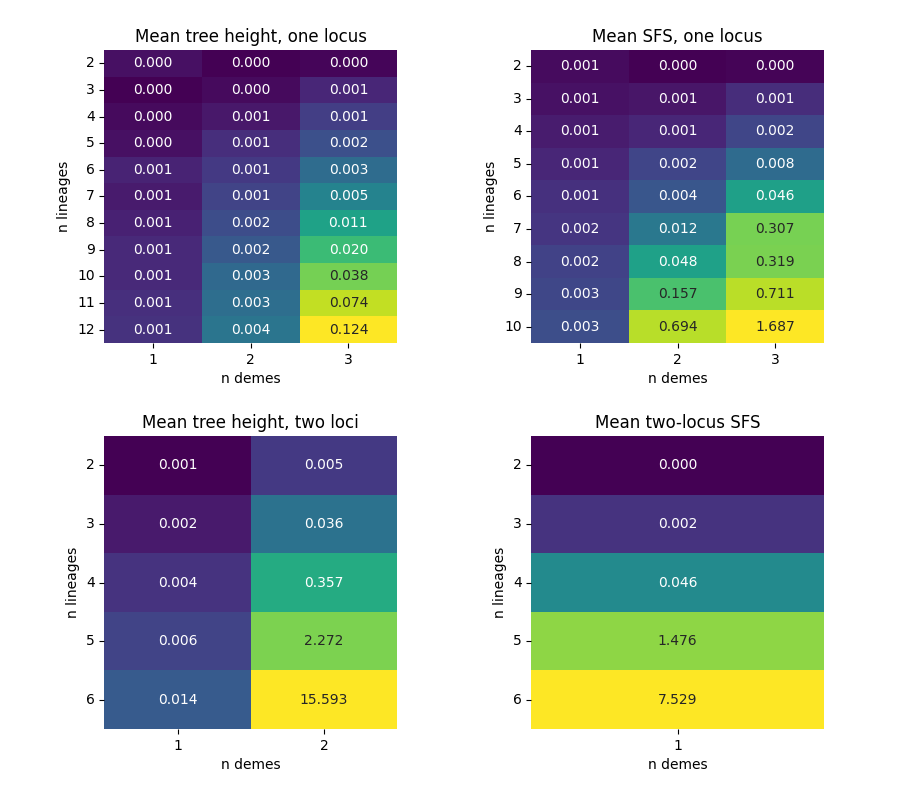
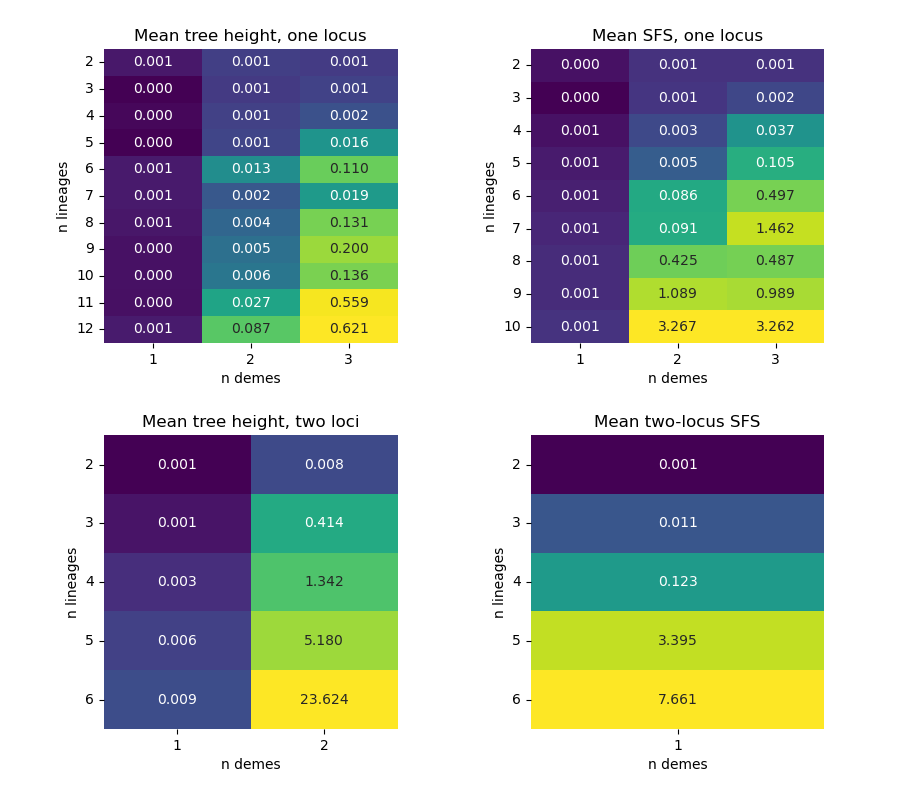
Prepare 1.2.0: bump version, changelog, performance page
Bump to 1.2.0 (pyproject, __init__, docs conf) and add the 1.2.0 changelog entry. Update the performance
page's runtime description (state-space flattening, closed-form last epoch, batched spectrum solves) and
regenerate execution_times.png; fix the benchmark warm-up (it used three isolated demes that never absorb).

diff --git a/docs/conf.py b/docs/conf.py
@@ -15,7 +15,7 @@ project = 'PhaseGen'
 year = datetime.datetime.now().year
 copyright = f'{year}, Janek Sendrowski'
 author = 'Janek Sendrowski'
-release = '1.1.1'
+release = '1.2.0'
 
 # -- General configuration ---------------------------------------------------
 # https://www.sphinx-doc.org/en/master/usage/configuration.html#general-configuration

diff --git a/phasegen/__init__.py b/phasegen/__init__.py
@@ -6,7 +6,7 @@ __author__ = "Janek Sendrowski"
 __contact__ = "[email redacted]"
 __date__ = "2023-04-09"
 
-__version__ = '1.1.1'
+__version__ = '1.2.0'
 
 import logging
 import os

diff --git a/scripts/plot_heatmap_execution_times.py b/scripts/plot_heatmap_execution_times.py
@@ -111,7 +111,7 @@ fig, ax = plt.subplots(2, 2, figsize=(9, 8))
 
 # warm start
 _ = pg.Coalescent(
-    n={'pop_0': 3, 'pop_1': 3, 'pop_2': 3},
+    n={'pop_0': 3, 'pop_1': 0, 'pop_2': 0},
 ).tree_height.mean
 
 plot_heatmap(

diff --git a/docs/modules/changelog.rst b/docs/modules/changelog.rst
@@ -3,17 +3,25 @@
 Changelog
 =========
 
+[1.2.0] - 2026-06-13
+^^^^^^^^^^^^^^^^^^^^
+- Add the cross-locus correlation of the two-locus SFS via :meth:`TwoLocusSFSDistribution.corr() <phasegen.distributions.TwoLocusSFSDistribution.corr>`.
+- Build large rate matrices sparsely with an explicit state-space size cap (:attr:`Settings.dense_rate_matrix_max_states <phasegen.settings.Settings.dense_rate_matrix_max_states>`, :attr:`Settings.max_state_space_size <phasegen.settings.Settings.max_state_space_size>`).
+- Evaluate the final unbounded epoch in closed form by default and batch the per-bin spectrum solves, substantially speeding up SFS/jSFS/2-SFS moments (:attr:`Settings.closed_form_last_epoch <phasegen.settings.Settings.closed_form_last_epoch>`).
+- Compute the single-population standard-coalescent SFS flattening weights in closed form, avoiding the partition-sized block-counting state space, so large-``n`` SFS (and SFS-based inference) is much faster.
+- Raise a clear error for demographies that never absorb (isolated demes or blocked migration) instead of returning a meaningless value.
+
 [1.1.1] - 2026-06-10
 ^^^^^^^^^^^^^^^^^^^^
 - Relax the ``numpy`` upper bound (``>=1.26.4``) to allow numpy 2, so phasegen can coexist with current, numpy-2-built msprime/tskit.
 
 [1.1.0] - 2026-06-10
 ^^^^^^^^^^^^^^^^^^^^
-- Add the joint (multi-population) site-frequency spectrum via :meth:`~phasegen.distributions.Coalescent.jsfs`.
-- Add the two-locus site-frequency spectrum under recombination via :meth:`~phasegen.distributions.Coalescent.sfs2`, with support for multiple-merger coalescents.
-- Add summary statistics: Hudson's :meth:`~phasegen.distributions.Coalescent.fst`, Patterson's f-statistics (:meth:`~phasegen.distributions.Coalescent.f2`, :meth:`~phasegen.distributions.Coalescent.f3`, :meth:`~phasegen.distributions.Coalescent.f4`), Tajima's :meth:`~phasegen.distributions.UnfoldedSFSDistribution.tajimas_d` with the :meth:`~phasegen.distributions.UnfoldedSFSDistribution.theta_pi` and :meth:`~phasegen.distributions.UnfoldedSFSDistribution.theta_w` estimators, and cross-locus linkage via the correlation of coalescence times.
+- Add the joint (multi-population) site-frequency spectrum via :meth:`Coalescent.jsfs() <phasegen.distributions.Coalescent.jsfs>`.
+- Add the two-locus site-frequency spectrum under recombination via :meth:`Coalescent.sfs2() <phasegen.distributions.Coalescent.sfs2>`, with support for multiple-merger coalescents.
+- Add summary statistics: Hudson's :meth:`Coalescent.fst() <phasegen.distributions.Coalescent.fst>`, Patterson's f-statistics (:meth:`Coalescent.f2() <phasegen.distributions.Coalescent.f2>`, :meth:`Coalescent.f3() <phasegen.distributions.Coalescent.f3>`, :meth:`Coalescent.f4() <phasegen.distributions.Coalescent.f4>`), Tajima's :meth:`UnfoldedSFSDistribution.tajimas_d() <phasegen.distributions.UnfoldedSFSDistribution.tajimas_d>` with the :meth:`UnfoldedSFSDistribution.theta_pi() <phasegen.distributions.UnfoldedSFSDistribution.theta_pi>` and :meth:`UnfoldedSFSDistribution.theta_w() <phasegen.distributions.UnfoldedSFSDistribution.theta_w>` estimators, and cross-locus linkage via the correlation of coalescence times.
 - Accelerate state-space construction with `numba <https://numba.pydata.org/>`__, which is now a required dependency.
-- Compute moments of large state spaces from the sparse action of the matrix exponential (threaded over epochs), controlled by :attr:`~phasegen.settings.Settings.expm_action_min_dim`.
+- Compute moments of large state spaces from the sparse action of the matrix exponential (threaded over epochs), controlled by :attr:`Settings.expm_action_min_dim <phasegen.settings.Settings.expm_action_min_dim>`.
 - Validate the new statistics against msprime/tskit ground truth, including within the scenario-comparison workflow (Kingman and multiple-merger models, and beyond the two-lineage case).
 - Use the ``spawn`` start method for the worker pool on macOS to avoid fork/numba deadlocks.
 - Documentation: add a dedicated *Spectra & summary statistics* reference page and drop the exponentiation-backend page.

diff --git a/docs/reference/performance.rst b/docs/reference/performance.rst
@@ -18,7 +18,7 @@ Constructing the state space (enumerating the states and assembling the rate mat
 
 Runtime
 -------
-To obtain moments we need to exponentiate matrices whose size equals the state space size times ``k+1`` where ``k`` is the order of the moment. Matrix exponentiation in general has a cubic runtime (depending on the state space's sparseness), which makes the runtime very sensitive to the size of the state space. In addition, the runtime is linear in the number of epochs introduced. For large state spaces the moments are instead obtained from the *action* of the matrix exponential on a vector (threaded through the epochs), which exploits the sparsity of the rate matrix and avoids forming the dense exponential, giving a substantial speedup for large/high-order/multi-epoch computations (the threshold is controlled by :attr:`~phasegen.settings.Settings.expm_action_min_dim`). Below we can see the total runtime in seconds for computing the mean tree height, the mean SFS, and the mean two-locus SFS under a 1-epoch standard coalescent over a range of different numbers of lineages and loci.
+To obtain moments we need to exponentiate matrices whose size equals the state space size times ``k+1`` where ``k`` is the order of the moment. Matrix exponentiation in general has a cubic runtime (depending on the state space's sparseness), which makes the runtime very sensitive to the size of the state space. In addition, the runtime is linear in the number of epochs introduced. For large state spaces the moments are instead obtained from the *action* of the matrix exponential on a vector (threaded through the epochs), which exploits the sparsity of the rate matrix and avoids forming the dense exponential, giving a substantial speedup for large/high-order/multi-epoch computations (the threshold is controlled by :attr:`~phasegen.settings.Settings.expm_action_min_dim`). Several further optimizations cut the runtime where they apply: the block-counting state space of the single-population standard-coalescent SFS is *flattened* onto the much smaller lineage-counting space, the final unbounded epoch is solved in closed form rather than by exponentiating over the estimated absorption time (:attr:`~phasegen.settings.Settings.closed_form_last_epoch`), and the per-bin solves of a whole spectrum are *batched* into one shared computation. Below we can see the total runtime in seconds for computing the mean tree height, the mean SFS, and the mean two-locus SFS under a 1-epoch standard coalescent over a range of different numbers of lineages and loci.
 
 .. image:: ../images/execution_times.png
    :alt: Execution times